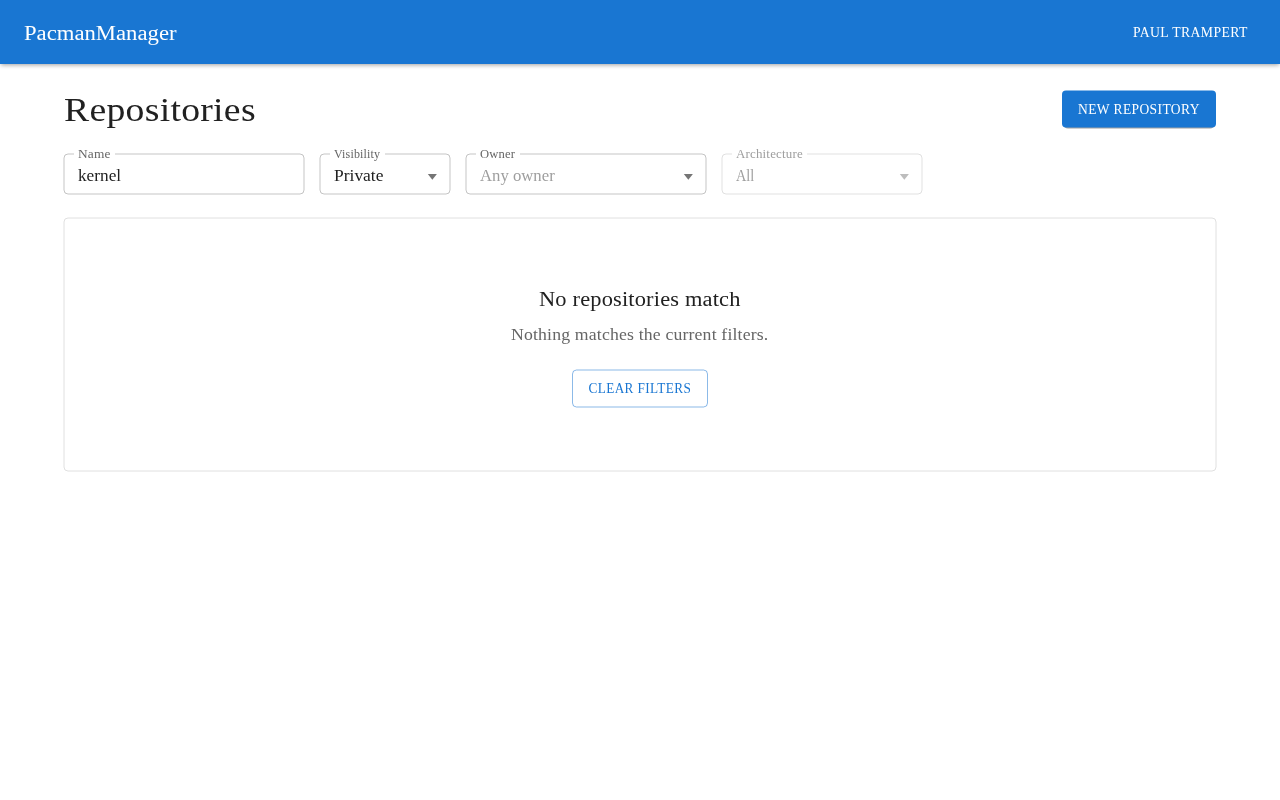
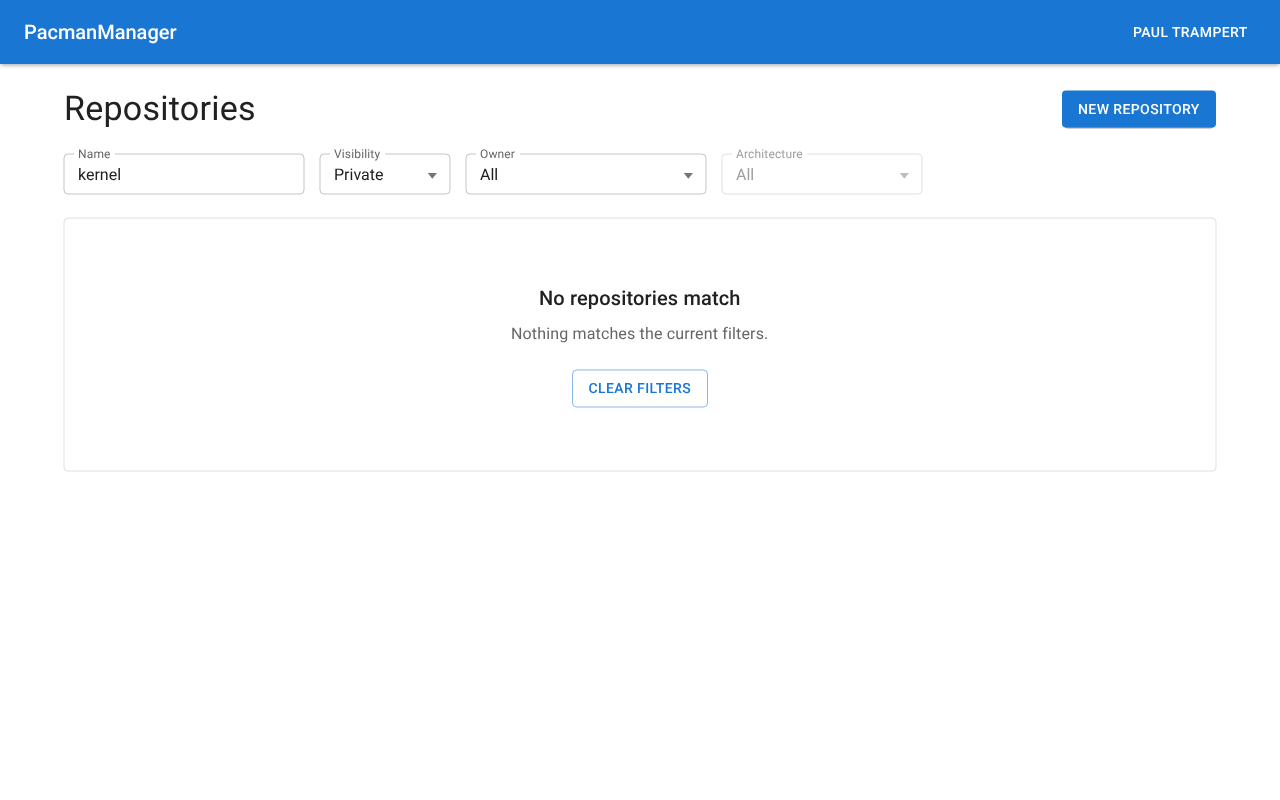
Show an unset owner filter as All, like the other filters
Addresses review: the wireframes said "Any owner".

diff --git a/docs/web-ui-repositories/web-ui-repositories.md b/docs/web-ui-repositories/web-ui-repositories.md
@@ -284,6 +284,8 @@ Every filter follows one rule: **a filter with one possible value or none is sho
 | Owner | typeahead over users, the signed-in user first | `GET /v1/Users?pageSize=1` reports `total` ≤ 1 | **All** |
 | Architecture | All, then each of `GET /v1/Architectures` by `displayValue` | that array has ≤ 1 entry | **All** |
 
+* Every filter's unfiltered value reads **All**, in the normal text colour while the filter is
+  enabled; there is no "Any …" placeholder.
 * **Visibility.** Signed in, it defaults to **All** (`isPublic` absent). Anonymous, it is disabled on
   **Public** and sends **no** `isPublic`: the API already shows an anonymous caller public
   repositories only.
